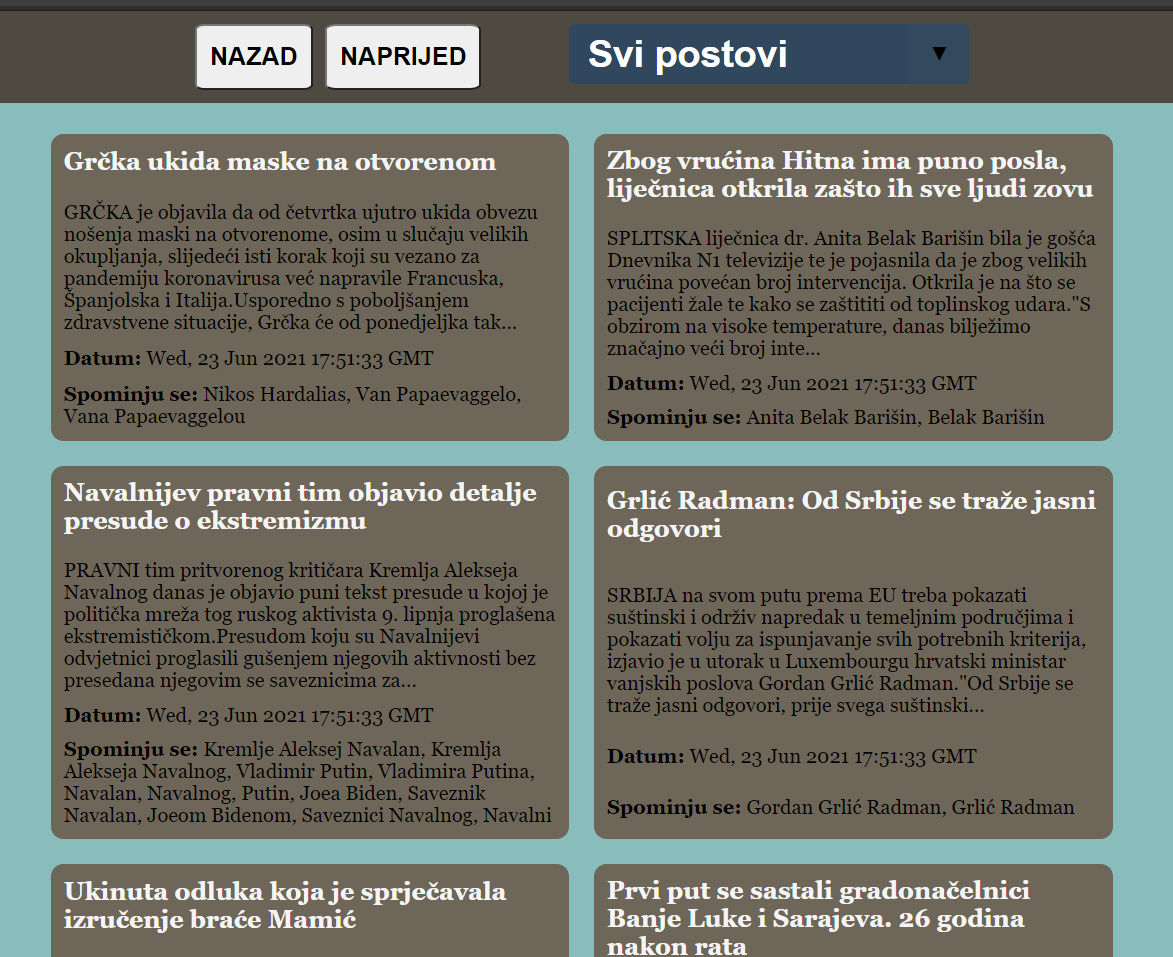
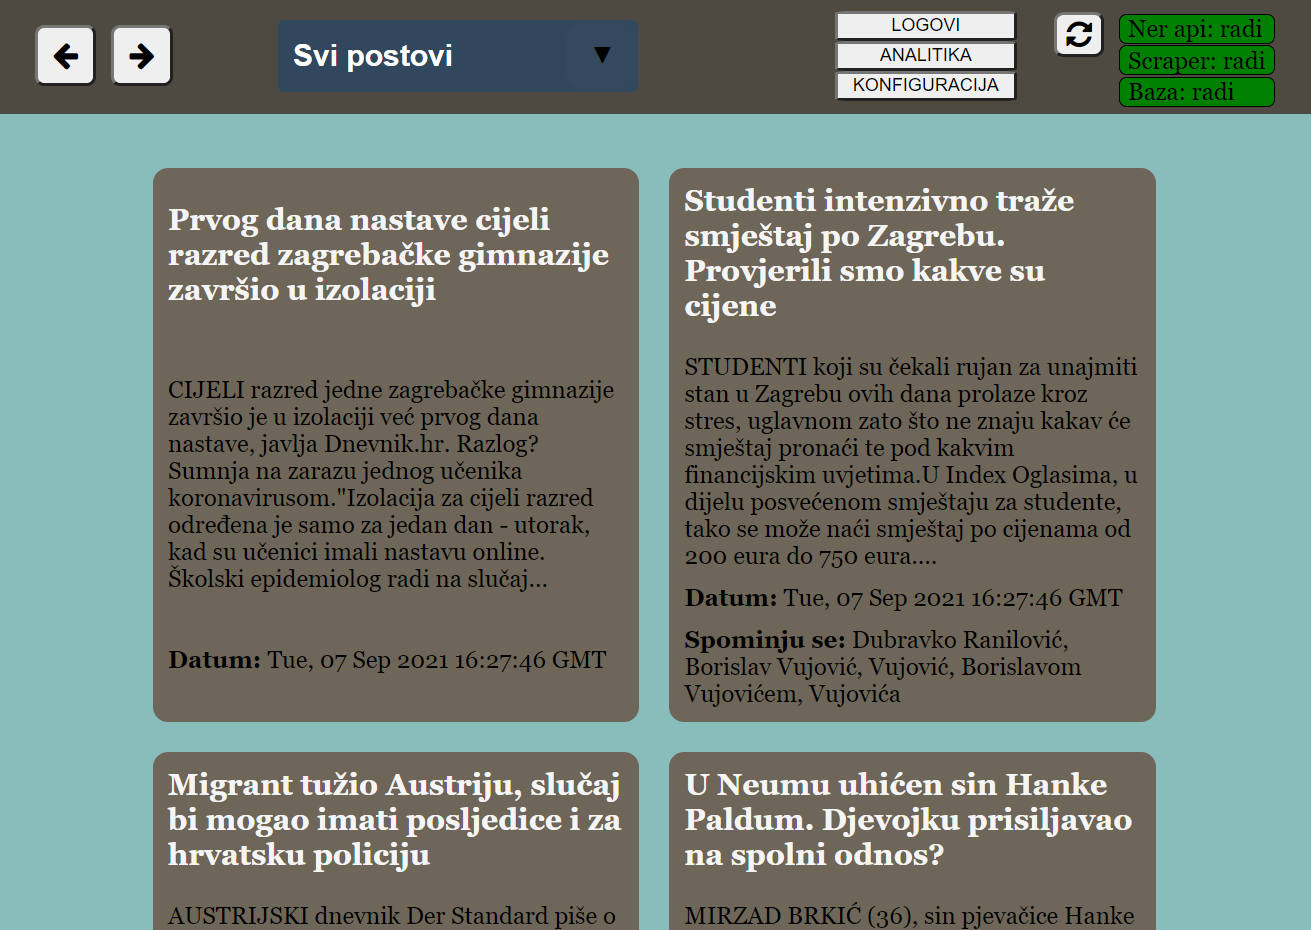
Add config from web app

diff --git a/web-app/src/components/ConfigPortalContainer.vue b/web-app/src/components/ConfigPortalContainer.vue
@@ -1,0 +1,115 @@
+<template>
+  <div>
+    <button class="add-new" @click="addNewPortal">Dodaj novi portal</button>
+    <prism-editor class="my-editor" v-model="code" :highlight="highlighter" line-numbers></prism-editor>
+    <textarea v-if="errorCode !== ''" class="errorArea" v-model="errorCode" readonly></textarea>
+    <textarea v-if="successCode !== ''" class="successArea" v-model="successCode" readonly></textarea>
+  </div>
+</template>
+ 
+<script>
+  import { PrismEditor } from 'vue-prism-editor'
+  import 'vue-prism-editor/dist/prismeditor.min.css'
+  import { highlight, languages } from 'prismjs/components/prism-core'
+  import 'prismjs/components/prism-clike'
+  import 'prismjs/components/prism-javascript'
+  import 'prismjs/themes/prism-tomorrow.css'
+  import axios from 'axios'
+ 
+  export default {
+    components: {
+      PrismEditor,
+    },
+    /* eslint-disable*/
+    data: function () {
+      return { 
+        code: `function fn() {
+    return {
+      vecernji: {
+        url: 'http://vecernji.hr/vijesti/',
+        evalString: '//a[starts-with(@href, "/vijesti/")]',
+        titleString: '.article__title',
+        contentString: '.article__body--main_content',
+        filters: [
+            containsRegex(/-\d+$/),
+            removeDuplicates
+        ],
+        async specificTextGetter(page) {
+            const paragraphs = await page.$x('//div[@class="article__body--main_content"]//p');
+            let content = [];
+            for (let i = 0; i < paragraphs.length; i++) {
+                const p = await paragraphs[i].getProperty('textContent');
+                const text = p._remoteObject.value && p._remoteObject.value.trim();
+                if (text) content.push(text);
+            }
+            
+            return content;
+        }
+      }
+    }
+  }`,
+         errorCode: '',
+         successCode: ''
+      }
+    },
+    /* eslint-enable*/
+    methods: {
+      highlighter(code) {
+        return highlight(code, languages.js)
+      },
+      async addNewPortal() {
+        try {
+          eval(this.code);
+          this.errorCode = ''
+          this.successCode = 'To je validni JavaScript kod. Scraper će od sada tražiti postove na zadanom portalu...'
+        } catch (e) {
+          this.successCode = ''
+          this.errorCode = 'To nije validni JavaScript kod. Provjerite još jednom:\n' + e
+        }
+        await axios.post(`http://localhost:3000/new_portal`, { code: this.code })
+      }
+    },
+  };
+</script> 
+ 
+<style>
+/* required class */
+.my-editor {
+  /* we dont use `language-` classes anymore so thats why we need to add background and text color manually */
+  background: #2d2d2d;
+  color: #ccc;
+
+  /* you must provide font-family font-size line-height. Example: */
+  font-family: Fira code, Fira Mono, Consolas, Menlo, Courier, monospace;
+  font-size: 14px;
+  line-height: 1.5;
+  padding: 5px;
+}
+
+/* optional class for removing the outline */
+.prism-editor__textarea:focus {
+  outline: none;
+}
+
+.errorArea {
+  width: 100%;
+  height: 50px;
+  background-color: red;
+}
+
+.successArea {
+  width: 100%;
+  height: 50px;
+  background-color: green;
+}
+
+.add-new {
+  margin-bottom: 2px;
+  cursor: pointer;
+  font-weight: 600;
+}
+
+.add-new:hover {
+  transform: scale(1.12);
+}
+</style> 

diff --git a/web-app/src/components/PostsContainer.vue b/web-app/src/components/PostsContainer.vue
@@ -37,8 +37,21 @@
       </div>
       <div class="right-nav">
         <div class="action-buttons">
-          <button class="nav-action" @click="onActivateTab('logs')">Logovi</button>
-          <button class="nav-action" @click="onActivateTab('analytics')">Analitika</button>
+          <button 
+            class="nav-action action-right" 
+            :class="{active: activeTab === 'logs'}"
+            @click="onActivateTab('logs')">
+            Logovi</button>
+          <button 
+            class="nav-action action-right"
+            :class="{active: activeTab === 'analytics'}"
+            @click="onActivateTab('analytics')">
+            Analitika</button>
+          <button 
+            class="nav-action action-right" 
+            :class="{active: activeTab === 'config'}"
+            @click="onActivateTab('config')">
+            Konfiguracija</button>
         </div>
         <div class="status">
           <button 
@@ -56,7 +69,7 @@
               class="status-line"
               v-for="status,index in servicesStatus" 
               :key="index"
-              :style="{'background-color': status ? 'green' : 'red'}">
+              :style="{'background-color': status.status ? 'green' : 'red'}">
               {{status.serviceName}}: {{status.status ? 'radi' : 'ne radi'}}
             </div>
           </div>
@@ -83,6 +96,9 @@
       <template v-if="activeTab === 'analytics'">
         <AnalyticsContainer :groups="groupNames"/>
       </template>
+      <template v-if="activeTab === 'config'">
+        <ConfigPortalContainer />
+      </template>
     </div>
     
   </div>
@@ -92,6 +108,7 @@
 import PostCard from './PostCard'
 import LogsContainer from './LogsContainer.vue'
 import AnalyticsContainer from './AnalyticsContainer.vue'
+import ConfigPortalContainer from './ConfigPortalContainer.vue'
 import axios from 'axios'
 
 export default {
@@ -99,7 +116,8 @@ export default {
   components: {
     PostCard,
     LogsContainer,
-    AnalyticsContainer
+    AnalyticsContainer,
+    ConfigPortalContainer
   },
   data() {
     return {
@@ -213,6 +231,11 @@ export default {
   display: flex;
 }
 
+.action-buttons {
+  display: flex;
+  flex-direction: column;
+}
+
 .status-line {
   border-radius: 5px;
   border: 1px solid black;
@@ -240,7 +263,7 @@ export default {
   padding-right: 10px;
   padding-left: 10px;
   border-radius: 8%;
-  font-size: 20px;
+  font-size: 12px;
   font-weight: 500;
   height: 60%;
 }
@@ -346,5 +369,14 @@ select {
   font-weight: 700;
   height: 30px;
   stroke-width: 30px;
+}
+
+.action-right:hover {
+  transform: translateX(-8px);
+}
+
+.active {
+  background-color: orange;
+  transform: translateX(-6px);
 }
 </style>

diff --git a/web-app/src/components/LogsContainer.vue b/web-app/src/components/LogsContainer.vue
@@ -4,8 +4,18 @@
       Učitavanje logova...
     </template>
     <template v-else>
-      <button @click="getLogs('scraper')">Logovi scrapera</button>
-      <button @click="getLogs('ner')">Logovi ner-a</button>
+      <button 
+        @click="getLogs('scraper')"
+        class="tab-button"
+        :style="{'background-color': activeTab === 'scraper' ? 'white' : 'gray'}">
+        Logovi scrapera
+      </button>
+      <button 
+        @click="getLogs('ner')"
+        class="tab-button"
+        :style="{'background-color': activeTab === 'ner' ? 'white' : 'gray'}">
+        Logovi ner-a
+      </button>     
       <br>
       <textarea class="logarea" v-model="textLogs" readonly>
       </textarea>
@@ -20,7 +30,8 @@ export default {
   data() {
     return {
       logs: [],
-      loadingLogs: false
+      loadingLogs: false,
+      activeTab: 'scraper'
     }
   },
   async created() {
@@ -28,6 +39,7 @@ export default {
   },
   methods: {
     getLogs: async function(source) {
+      this.activeTab = source
       this.loadingLogs = true;
       const res = await axios.get(`http://localhost:3000/get_logs?source=${source}`)
       console.log(`got ${source} logs`)
@@ -53,5 +65,14 @@ export default {
 .logarea {
   width: 100%;
   height: 600px;
+}
+
+.tab-button {
+  margin-right: 2px;
+  cursor: pointer;
+}
+
+.tab-button:hover {
+  transform: scale(1.12);
 }
 </style>

diff --git a/web-app/src/components/Bar.vue b/web-app/src/components/Bar.vue
@@ -11,6 +11,7 @@ export default {
         {
           label: "Broj pojava imena",
           data: this.counts,
+          backgroundColor: 'green'
         },
       ],
     };
